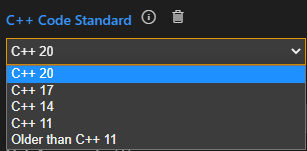
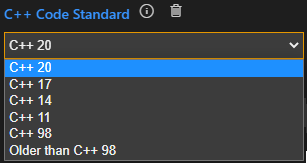
RIC-464: Doc for TC "sources" property

diff --git a/docs-sources/building/transformation-configurations.md b/docs-sources/building/transformation-configurations.md
@@ -33,7 +33,7 @@ You can edit a TC directly as a JavaScript file in the text editor. Features suc
 
 ![](images/tc-editor-tooltip.png)
 
-* TC properties are validated when edited and found problems will be reported.
+* TC properties are validated when edited and found problems will be reported. Click the "More information" hyperlink for a more detailed description of a problem, including suggestions for how to fix it.
 
 ![](images/tc-editor-validation.png)
 
@@ -62,7 +62,28 @@ You can tell which TC properties that have a custom (i.e. non-default) value set
 You can freely choose if you want to edit TC files as text files or using the form-based TC editor, and you can even use both at the same time. The form-based TC editor is automatically updated as soon as you edit the TC file, and the TC file is automatically updated when a widget with a modified value loses focus. 
 
 ## Properties
-Below is an alphabetic list of all properties that can be used in a TC. Note that many TC properties have default values and you only need to specify a value for a TC property if its different from the default value.
+Below is a table that lists all properties that can be used in a TC. Note that many TC properties have default values and you only need to specify a value for a TC property if its different from the default value. Each property is described in a section of its own below the table.
+
+<p id="tc_properties"/>
+
+| Property | Type | Default Value | 
+|----------|:-------------|:-------------|
+| [commonPreface](#commonpreface) | String | N/A
+| [compileArguments](#compilearguments) | String | N/A 
+| [compileCommand](#compilecommand) | String | "$CC"
+| [copyrightText](#copyrighttext) | String | N/A 
+| [cppCodeStandard](#cppcodestandard) | Enum string | "C++ 17"
+| [linkArguments](#linkarguments) | String | N/A
+| [linkCommand](#linkcommand) | String | "$LD"
+| [makeArguments](#makearguments) | String | N/A
+| [makeCommand](#makecommand) | String | "$defaultMakeCommand"
+| [sources](#sources) | List of strings | ["*.art"]
+| [targetConfiguration](#targetconfiguration) | String | Depends on current operating system
+| [targetConfigurationName](#targetconfigurationname) | String | "default"
+| [targetFolder](#targetfolder) | String | Name of TC with "_target" appended
+| [targetRTSLocation](#targetrtslocation) | String | "${rtistic_home}/TargetRTS"
+| [topCapsule](#topcapsule) | String | N/A
+| [unitName](#unitname) | String | "UnitName"
 
 ### commonPreface
 This property allows you to write some code that will be inserted verbatimly into the header unit file (by default called `UnitName.h`). Since the header unit file is included by all files that are generated from the TC, you can use the common preface to define or include definitions that should be available everywhere in generated code.
@@ -77,7 +98,7 @@ Specifies which C++ compiler to use for compiling generated C++ code. The defaul
 This property may be used to insert a common comment block in the beginning of each generated file, typically a copyright text.
 
 ### cppCodeStandard
-Defines the C++ language standard to which generated code will conform. The default value for this property is `C++ 17`. Other valid values are `C++ 11`, `C++ 14` and `C++ 20`. If you need to compile generated code with a compiler that doesn't support C++ 11 you can set this preference to `Older than C++ 11`. However, you then cannot use the latest version of the TargetRTS since it uses C++ 11 constructs.
+Defines the C++ language standard to which generated code will conform. The default value for this property is `C++ 17`. Other valid values are `C++ 98`, `C++ 11`, `C++ 14` and `C++ 20`. Note that the latest version of the TargetRTS requires at least C++ 11, so if you use an older code standard you have to set [TargetRTSLocation](#targetrtslocation) to an older version of the TargetRTS that doesn't contain any C++ 11 constructs. If you need to compile generated code with a very old compiler that doesn't even support C++ 98 you can set this preference to `Older than C++ 98`.
 
 ### linkArguments
 Specifies the arguments for the C++ linker used for linking object files and libraries into an executable. This property is only applicable for TCs that build executables.
@@ -90,6 +111,16 @@ Specifies the arguments for the [make command](#makecommand) to be used.
 
 ### makeCommand
 Specifies which make command to use for processing the generated make file. By default the make command is `$defaultMakeCommand` which gets its value from which TargetRTS configuration that is used.
+
+### sources
+By default all Art files that are located in the same folder as the TC will be transformed to C++. Sometimes you may want to exclude some Art files, for example because they are built with another TC, or they contain something you want to temporarily exclude from your application without having to delete the files or comment out their contents. In these cases you can set the `sources` property to specify exactly which Art files that should be built by the TC. The value of the property is a list of strings that specify glob-style patterns and anti-patterns. An Art file will be transformed if it matches at least one pattern and doesn't match any anti-pattern. Anti-patterns start with the `!` character. In both patterns and anti-patterns you can use the wildcards `*` (matches any sequence of characters) and `?` (matches a single character). Below are a few examples:
+
+``` js
+tc.sources = ["*.art"]; // Transform all Art files in the folder that contains the TC. This is the default behavior if the "sources" property is not set.
+tc.sources = ["cap1.art", "cap2.art"]; // Only transform two specific Art files
+tc.sources = ["*.art", "!rtist_gen.art"]; // Transform all Art files except one
+tc.sources = ["source??.art", "!*_gen.art"]; // Transform all Art files with names starting with "source" and followed by two arbitrary characters. Art files with a name that ends with "_gen" are excluded.
+```
 
 ### targetConfiguration
 Specifies which TargetRTS configuration to use. The TargetRTS location specified in the [targetRTSLocation](#targetrtslocation) property defines valid values for this property. If this property is not specified, and the default TargetRTS location from the {$product.name$} installation is used, then it will get a default value according to the operating system that is used. For Windows a MinGw-based configuration will be used, while for Linux a GCC-based configuration will be used.
